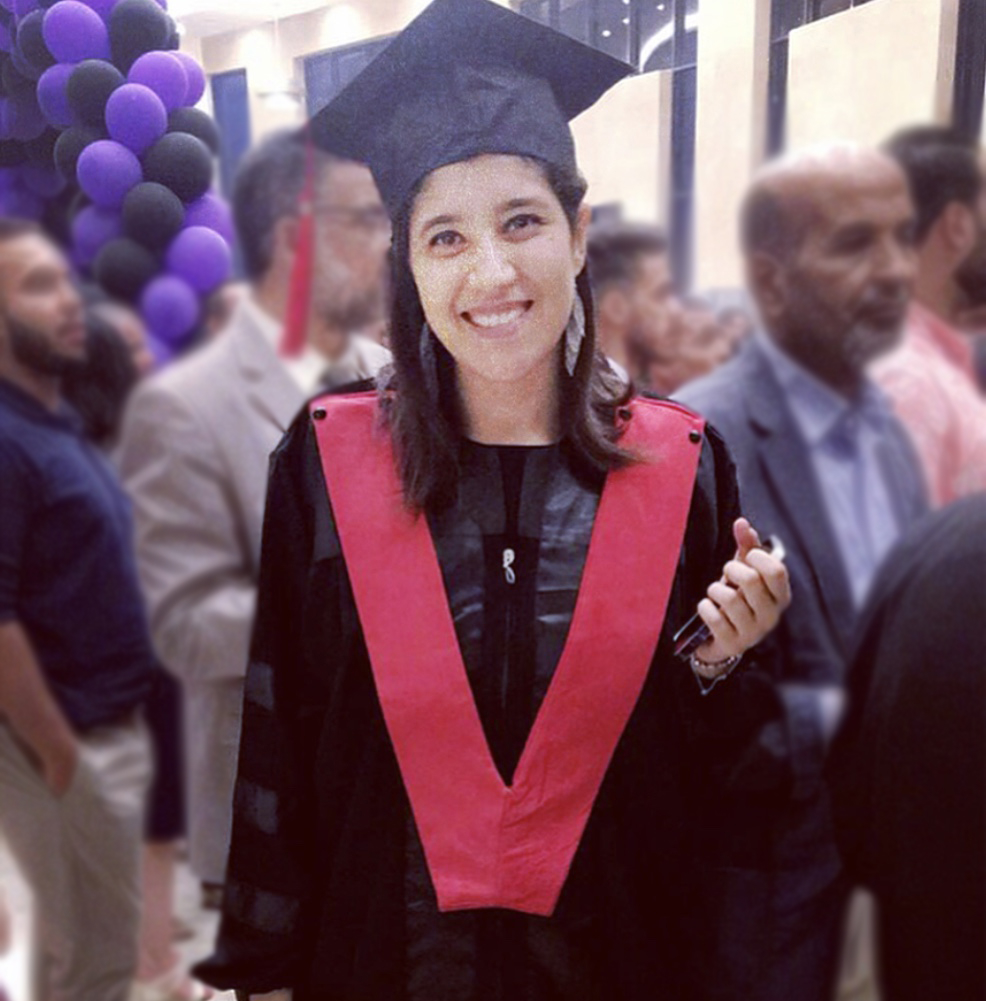
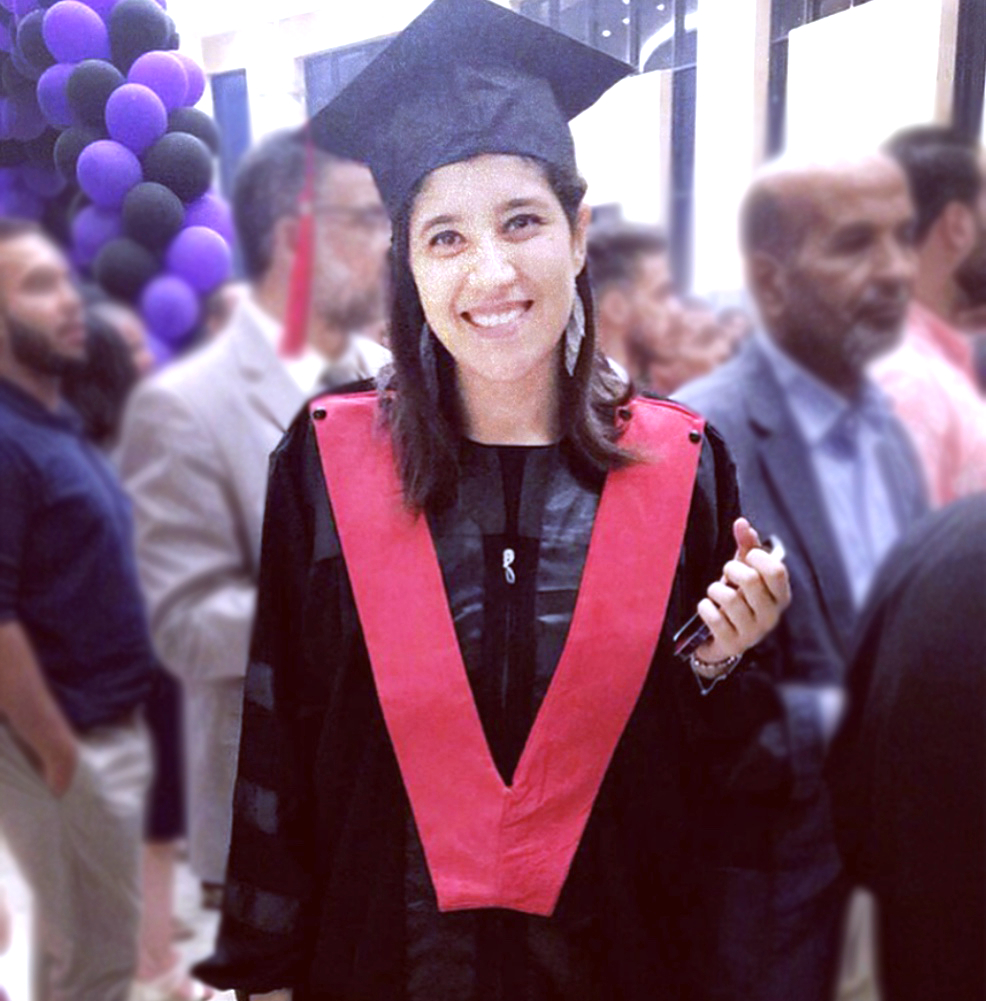
initial commit

diff --git a/index.html b/index.html
@@ -115,7 +115,7 @@
 
 
                     <div class="col-11  col-md-6 picture m-auto">
-                        <img class="img-fluid rounded-circle " src="images/img3.jpg" alt="">
+                        <img class="img-fluid rounded-circle p-3" src="images/MyPic.jpg" alt="">
 
                     </div>
 
